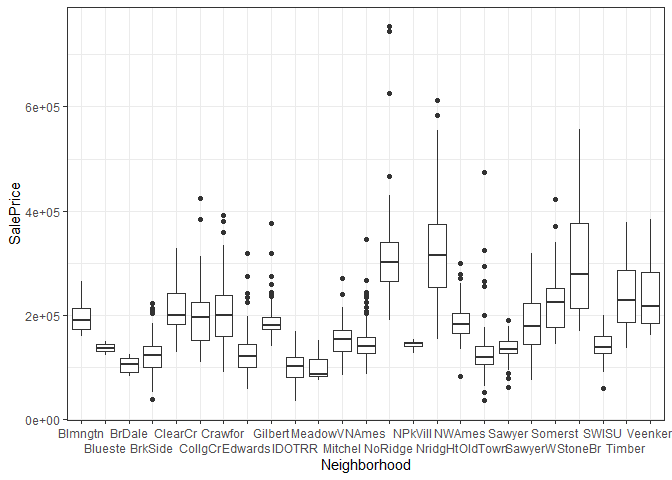
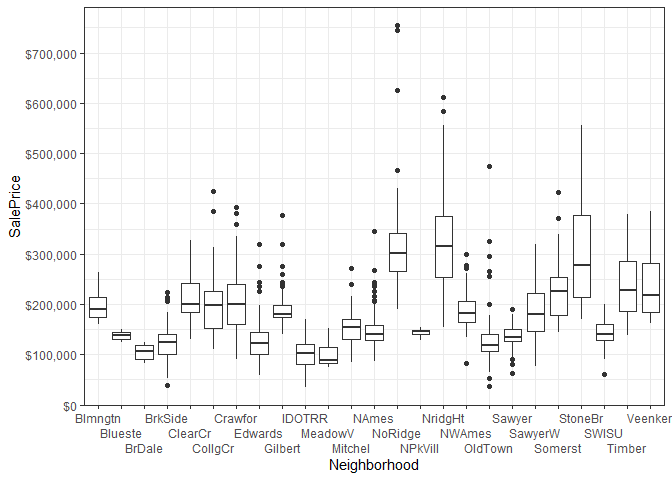
update and render

diff --git a/submissions/alec_wong/readme.md b/submissions/alec_wong/readme.md
@@ -1,49 +1,90 @@
-Housing data
-============
+Housing data mini-analysis
+================
+Alec Wong
+
+# Housing data
+
+The data are sourced from the Kaggle competition found here:
+<https://www.kaggle.com/c/house-prices-advanced-regression-techniques>
+
+I used the Kaggle API to download the data:
+
+    kaggle competitions download -c house-prices-advanced-regression-techniques
+
+The `data_description.txt` file contains all the relevant metadata on
+the dataset.
 
 Among the many variables included in the dataset here, the
 `Neighborhoods` variable caught my eye. It was clear from the
 `data_description.txt` file that the neighborhoods were located in Ames,
-Iowa. The objective became:
+Iowa. The objective of this short exploration became:
 
--   Geocode the neighborhoods as a bit of feature engineering.
--   See if including the neighborhood spatial information improves
-    prediction any.
+  - Geocode the neighborhoods.
+  - See if including the neighborhood spatial information improves
+    prediction.
 
-Neighborhood values
--------------------
+## Neighborhood values
 
 The neighborhood values take on the following, as described in the
-`data_description.txt` file. It was tab-delimited already, so I
-extracted it into its own `.tsv` file.
+`data_description.txt` file. It was tab-delimited already within the
+text file, so I extracted it into its own `.tsv` file.
 
-    neighborhoods = readr::read_delim(file = 'data/neighborhoods_match.tsv', 
-                                      delim = '\t', 
-                                      col_names = c("abbreviation", "neighborhood"),
-                                      col_types = cols(col_character(), col_character())
-    )
+``` r
+neighborhoods = readr::read_delim(file = 'data/neighborhoods_match.tsv', 
+                                  delim = '\t', 
+                                  col_names = c("abbreviation", "neighborhood"),
+                                  col_types = cols(col_character(), col_character())
+)
 
-    neighborhoods
+neighborhoods %>% print(n = 100)
+```
 
-    # A tibble: 25 x 2
-       abbreviation neighborhood          
-       <chr>        <chr>                 
-     1 Blmngtn      Bloomington Heights   
-     2 Blueste      Bluestem              
-     3 BrDale       Briardale             
-     4 BrkSide      Brookside             
-     5 ClearCr      Clear Creek           
-     6 CollgCr      College Creek         
-     7 Crawfor      Crawford              
-     8 Edwards      Edwards               
-     9 Gilbert      Gilbert               
-    10 IDOTRR       Iowa DOT and Rail Road
-    # ... with 15 more rows
+``` 
+# A tibble: 25 x 2
+   abbreviation neighborhood                         
+   <chr>        <chr>                                
+ 1 Blmngtn      Bloomington Heights                  
+ 2 Blueste      Bluestem                             
+ 3 BrDale       Briardale                            
+ 4 BrkSide      Brookside                            
+ 5 ClearCr      Clear Creek                          
+ 6 CollgCr      College Creek                        
+ 7 Crawfor      Crawford                             
+ 8 Edwards      Edwards                              
+ 9 Gilbert      Gilbert                              
+10 IDOTRR       Iowa DOT and Rail Road               
+11 MeadowV      Meadow Village                       
+12 Mitchel      Mitchell                             
+13 Names        North Ames                           
+14 NoRidge      Northridge                           
+15 NPkVill      Northpark Villa                      
+16 NridgHt      Northridge Heights                   
+17 NWAmes       Northwest Ames                       
+18 OldTown      Old Town                             
+19 SWISU        South & West of Iowa State University
+20 Sawyer       Sawyer                               
+21 SawyerW      Sawyer West                          
+22 Somerst      Somerset                             
+23 StoneBr      Stone Brook                          
+24 Timber       Timberland                           
+25 Veenker      Veenker                              
+```
 
-    data %>% 
-      ggplot() + 
-      geom_boxplot(aes(x = Neighborhood, y = SalePrice)) + 
-      theme_bw() + 
-      scale_x_discrete(guide = guide_axis(n.dodge = 2))
+There are 25 neighborhoods, and after entering some of these by hand,
+most of these have some definition using the [Google Maps Geocoding
+API](https://developers.google.com/maps/documentation/geocoding/intro).
 
-![](output/figures/unnamed-chunk-2-1.png)
+The neighborhoods have some moderate correlation with housing cost, and
+intuitively one would assume that neighborhoods closer together might
+covary more than neighborhoods farther apart.
+
+``` r
+data %>% 
+  ggplot() + 
+  geom_boxplot(aes(x = Neighborhood, y = SalePrice)) + 
+  theme_bw() + 
+  scale_x_discrete(guide = guide_axis(n.dodge = 3)) + 
+  scale_y_continuous(labels = scales::dollar, breaks = seq(0, 1e6, by = 1e5))
+```
+
+![](output/figures/unnamed-chunk-2-1.png)<!-- -->
